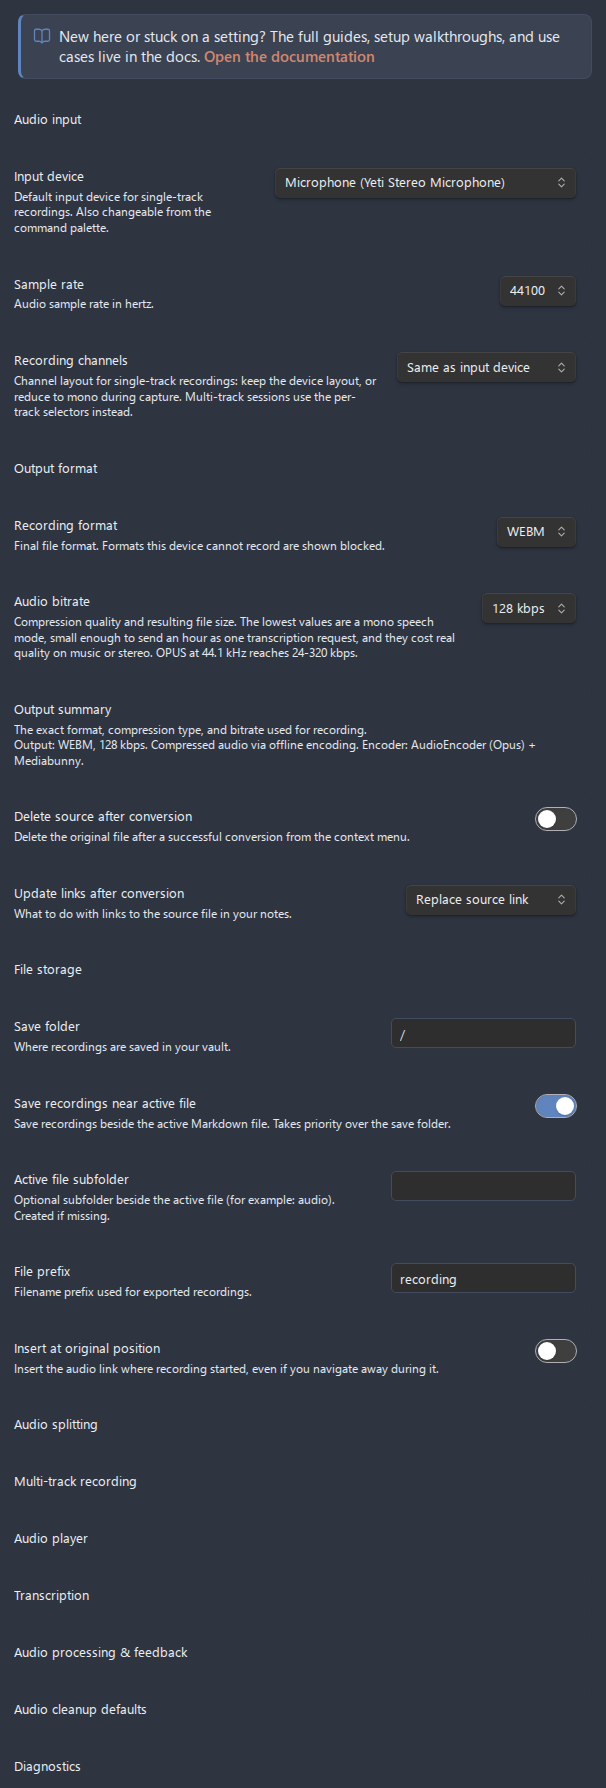
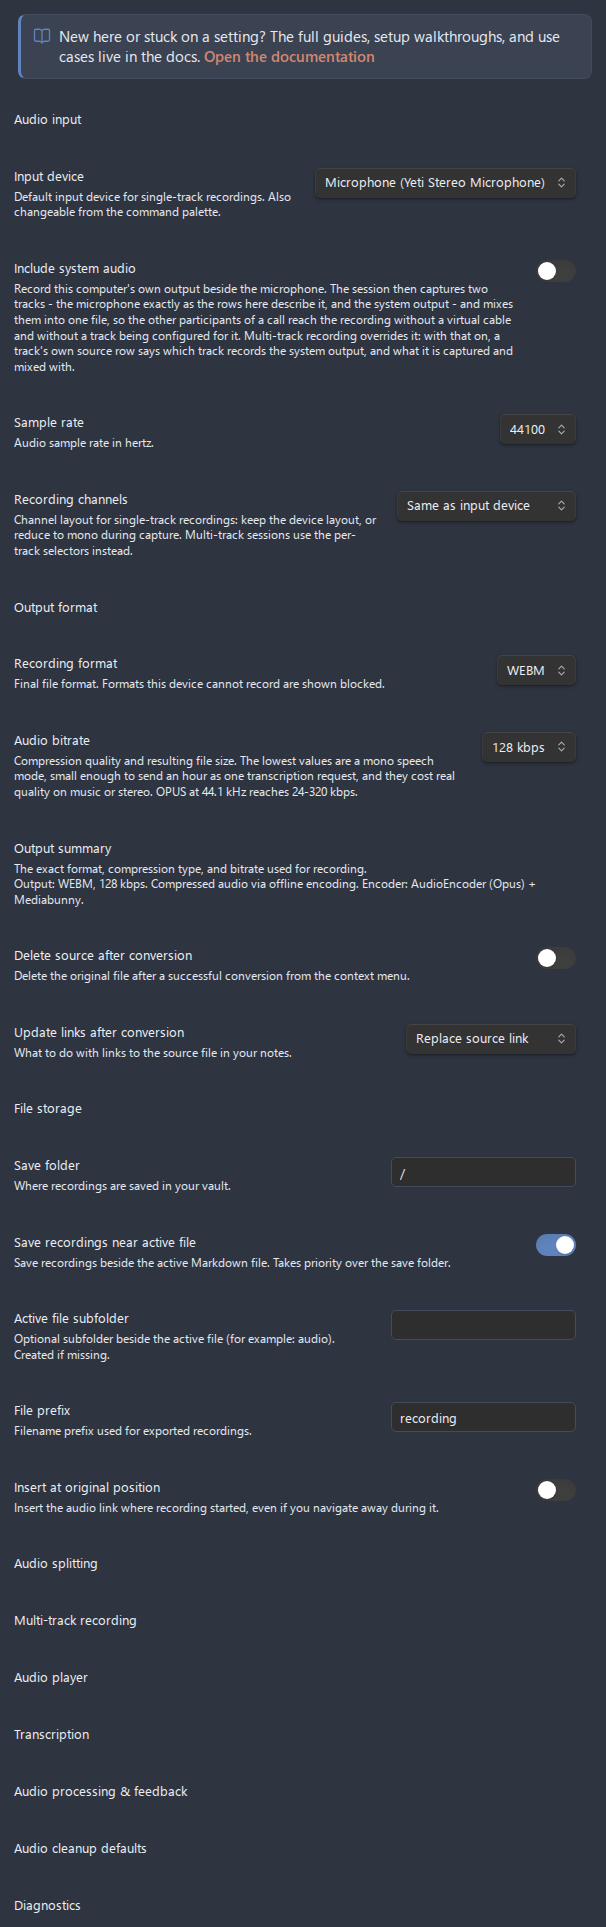
docs: picture the system-audio switch and the block it sits in
The Audio input figures were rendered before the block had a fourth row, and
the settings reference described them as three dropdowns. Re-render both from
this branch, add a figure of the switch itself to the section that explains
it, and pad the Audio input table back to one width.

diff --git a/docs/settings-reference.md b/docs/settings-reference.md
@@ -63,14 +63,14 @@ At the very top of the settings tab is a callout with a book icon linking to the
 
 Pick the microphone, sample rate, and channel layout used for recordings, and say whether this computer's own output is recorded beside the microphone. The device dropdown auto-refreshes when you plug or unplug a device while the tab is open. See [Recording](recording.md) for how these are used.
 
-![Audio input settings with the input device dropdown, the sample rate dropdown and the recording channels dropdown](images/settings-audio-input.png)
+![Audio input settings with the input device dropdown, the Include system audio switch, the sample rate dropdown and the recording channels dropdown](images/settings-audio-input.png)
 
-| Setting                | What it does                                                                                                                                                                                                                                                                                                                                                                                                                                                                                                                                                                                                                                                                                                                                                      | Options / range                                                                             | Default                                                                                                                |
-| ---------------------- | ----------------------------------------------------------------------------------------------------------------------------------------------------------------------------------------------------------------------------------------------------------------------------------------------------------------------------------------------------------------------------------------------------------------------------------------------------------------------------------------------------------------------------------------------------------------------------------------------------------------------------------------------------------------------------------------------------------------------------------------------------------------- | ------------------------------------------------------------------------------------------- | ---------------------------------------------------------------------------------------------------------------------- |
-| **Input device**       | Default input device for single-track recordings. The dropdown lists every detected device and refreshes on device change. The **Select audio input device** command opens a quick device-picker modal; choosing a device saves it here immediately and shows a confirmation notice.                                                                                                                                                                                                                                                                                                                                                                                                                                                                              | Auto-detected device list                                                                   | None - pick one before recording (the dropdown shows the first detected device, but nothing is saved until you choose) |
-| **Include system audio** | Records this computer's own output beside the microphone, without configuring a track for it. The session then captures two tracks - the microphone as the rows around this one describe it, and the system output granted by the host - and mixes them into one file, so the remote side of a call reaches the recording. Electron grants that output on Windows only, and the row says so where the build cannot; a recording started with it on elsewhere is refused with the same reason. Off on mobile, which cannot open two captures at once. Disabled while **Multi-track recording** is on, because a per-track configuration already says what each track records and one session can capture the system output only once. | On / Off | Off |
-| **Sample rate**        | Audio sample rate in hertz, as a dropdown over a fixed list. Every value is offered on every device, because `getUserMedia` accepts a rate it cannot deliver and quietly substitutes its own, so there is nothing to probe.                                                                                                                                                                                                                                                                                                                                                                                                                                                                                                                                       | 8000 / 16000 / 22050 / 44100 / 48000 Hz                                                     | 44100 Hz                                                                                                               |
-| **Recording channels** | Channel layout for **single-track** recordings. `Same as input device` keeps whatever the device delivers. The mono options downmix during capture: `Mono (mix all channels)` averages every input channel, while `Mono (left channel)` / `Mono (right channel)` keep exactly one channel at full level - the right choice for audio interfaces whose two mono inputs appear as a single stereo device, where a mix would sound 6 dB quieter. Also applies to the settings test recording. Disabled (greyed out) when the selected input device reports a mono-only input or is disconnected; the saved choice is preserved and restored when a capable device is available again. Multi-track sessions use the per-track **Track N channels** selectors instead. | Same as input device / Mono (mix all channels) / Mono (left channel) / Mono (right channel) | Same as input device                                                                                                   |
+| Setting                  | What it does                                                                                                                                                                                                                                                                                                                                                                                                                                                                                                                                                                                                                                                                                                                                                      | Options / range                                                                             | Default                                                                                                                |
+| ------------------------ | ----------------------------------------------------------------------------------------------------------------------------------------------------------------------------------------------------------------------------------------------------------------------------------------------------------------------------------------------------------------------------------------------------------------------------------------------------------------------------------------------------------------------------------------------------------------------------------------------------------------------------------------------------------------------------------------------------------------------------------------------------------------- | ------------------------------------------------------------------------------------------- | ---------------------------------------------------------------------------------------------------------------------- |
+| **Input device**         | Default input device for single-track recordings. The dropdown lists every detected device and refreshes on device change. The **Select audio input device** command opens a quick device-picker modal; choosing a device saves it here immediately and shows a confirmation notice.                                                                                                                                                                                                                                                                                                                                                                                                                                                                              | Auto-detected device list                                                                   | None - pick one before recording (the dropdown shows the first detected device, but nothing is saved until you choose) |
+| **Include system audio** | Records this computer's own output beside the microphone, without configuring a track for it. The session then captures two tracks - the microphone as the rows around this one describe it, and the system output granted by the host - and mixes them into one file, so the remote side of a call reaches the recording. Electron grants that output on Windows only, and the row says so where the build cannot; a recording started with it on elsewhere is refused with the same reason. Off on mobile, which cannot open two captures at once. Disabled while **Multi-track recording** is on, because a per-track configuration already says what each track records and one session can capture the system output only once.                              | On / Off                                                                                    | Off                                                                                                                    |
+| **Sample rate**          | Audio sample rate in hertz, as a dropdown over a fixed list. Every value is offered on every device, because `getUserMedia` accepts a rate it cannot deliver and quietly substitutes its own, so there is nothing to probe.                                                                                                                                                                                                                                                                                                                                                                                                                                                                                                                                       | 8000 / 16000 / 22050 / 44100 / 48000 Hz                                                     | 44100 Hz                                                                                                               |
+| **Recording channels**   | Channel layout for **single-track** recordings. `Same as input device` keeps whatever the device delivers. The mono options downmix during capture: `Mono (mix all channels)` averages every input channel, while `Mono (left channel)` / `Mono (right channel)` keep exactly one channel at full level - the right choice for audio interfaces whose two mono inputs appear as a single stereo device, where a mix would sound 6 dB quieter. Also applies to the settings test recording. Disabled (greyed out) when the selected input device reports a mono-only input or is disconnected; the saved choice is preserved and restored when a capable device is available again. Multi-track sessions use the per-track **Track N channels** selectors instead. | Same as input device / Mono (mix all channels) / Mono (left channel) / Mono (right channel) | Same as input device                                                                                                   |
 
 ---
 

diff --git a/docs/recording.md b/docs/recording.md
@@ -75,6 +75,8 @@ A recording that has to carry the other side of a call needs more than a microph
 
 The short one is **Include system audio**, the switch under [Audio input](settings-reference.md#audio-input) beside the input device. With it on, a recording captures two tracks - the microphone exactly as the rows around that switch describe it, and this computer's own output - and mixes them into one file, written as `<file prefix>-multitrack-<timestamp>.<ext>` the way any merged session is. Nothing else is configured: the second track has no device to pick, no filtering to choose and no place in the mix to set, because those answers are what the switch decides. Two mixed tracks are one file to write at the end, so automatic splitting has nothing to rotate and is skipped for such a session, with a notice saying so. Electron grants the machine's output on Windows only, and the switch says so where the build cannot; it is off on mobile, which cannot open two captures at once, and it stands down while multi-track recording is on.
 
+![The Include system audio switch turned on under Audio input, above the description of what the paired session records and of the platforms that grant the system output](images/settings-include-system-audio.png)
+
 The long one is a track of your own, through **Track N source**, which is where to go when the pairing's fixed answers are not the wanted ones: a session of three tracks rather than two, one file per track rather than a mix, or a level correction on the remote side. See [Multi-track recording](multi-track-recording.md).
 
 Either way this is the direct capture, which Electron grants on Windows alone. An input that carries the machine's output, such as a Stereo Mix device or a virtual cable, is marked `(system audio)` in both dropdowns on every platform, so it can be told apart from a microphone. Such an input exists only where the operating system or an installed virtual cable publishes one, and recording it is how a call's remote participants reach a recording everywhere else. See [Recording a call with its remote participants](use-cases/meeting-notes-workflow.md#recording-a-call-with-its-remote-participants).
